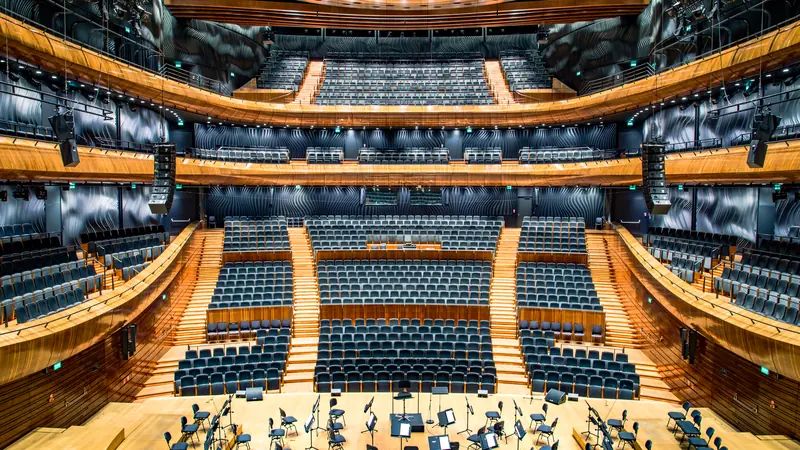
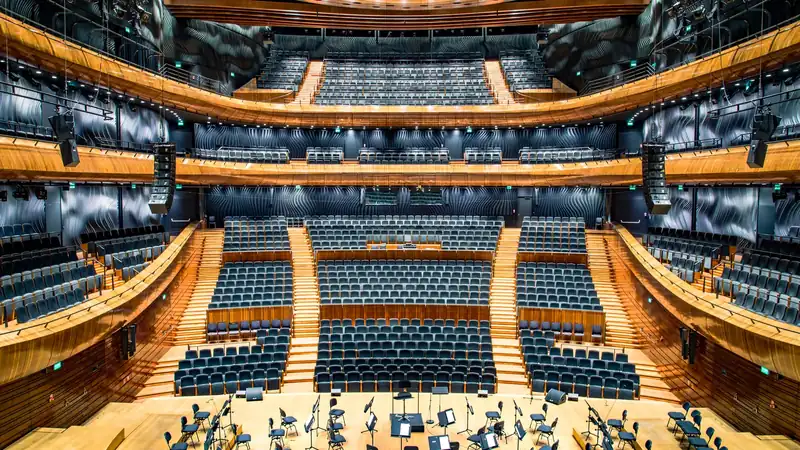
Reduce mobile LCP contention from covers and GA4 (#3)
Keep the homepage hero preload, but stop eager-loading below-the-fold
covers, serve 400/720 WebP srcset variants, recompress the heavy
multicam cover, defer gtag until idle, and lift footer copyright
contrast above 4.5:1.

diff --git a/src/lib/articles.ts b/src/lib/articles.ts
@@ -7,7 +7,7 @@ export type ArticleEn = CollectionEntry<'articlesEn'>;
 export type AnyArticle = Article | ArticleEn;
 
 type ImgRec = {
-  cover: { src: string; src800: string; w: number; h: number; alt: string; altEn?: string; credit: any };
+  cover: { src: string; src800: string; src720?: string; src400?: string; w: number; h: number; alt: string; altEn?: string; credit: any };
   og: string;
   inline: any[];
 };
@@ -27,6 +27,13 @@ export async function getArticlesFor(locale: Locale): Promise<AnyArticle[]> {
 
 export function imagesFor(slug: string): ImgRec | undefined {
   return (images as any).articles[slug];
+}
+/** 400w for thumbs, 720w for a phone-width card at ~1.75x, 800w above that. */
+export function coverSrcset(cover?: { src800?: string; src720?: string; src400?: string } | null): string {
+  if (!cover?.src800) return '';
+  const src400 = cover.src400 || cover.src800.replace(/cover-800\.webp$/, 'cover-400.webp');
+  const src720 = cover.src720 || cover.src800.replace(/cover-800\.webp$/, 'cover-720.webp');
+  return `${src400} 400w, ${src720} 720w, ${cover.src800} 800w`;
 }
 export function coverAlt(slug: string, locale: Locale = 'zh'): string {
   const img = imagesFor(slug);

diff --git a/src/pages/search.json.js b/src/pages/search.json.js
@@ -1,4 +1,4 @@
-import { getArticles, getArticlesEn, imagesFor } from '../lib/articles';
+import { getArticles, getArticlesEn, imagesFor, coverSrcset } from '../lib/articles';
 import { CATEGORIES } from '../consts';
 import { CATEGORIES_EN } from '../lib/i18n';
 
@@ -14,6 +14,7 @@ export async function GET() {
       g: p.data.tags,
       lang: 'zh',
       i: imagesFor(p.id)?.cover.src800 || '',
+      s: imagesFor(p.id) ? coverSrcset(imagesFor(p.id).cover) : '',
       k: (p.body || '').replace(/[#>*`|\-\[\]()]/g, ' ').replace(/\s+/g, ' ').slice(0, 1500),
     })),
     ...en.map((p) => ({
@@ -24,6 +25,7 @@ export async function GET() {
       g: p.data.tags,
       lang: 'en',
       i: imagesFor(p.id)?.cover.src800 || '',
+      s: imagesFor(p.id) ? coverSrcset(imagesFor(p.id).cover) : '',
       k: (p.body || '').replace(/[#>*`|\-\[\]()]/g, ' ').replace(/\s+/g, ' ').slice(0, 1500),
     })),
   ];

diff --git a/src/styles/global.css b/src/styles/global.css
@@ -300,7 +300,7 @@ main:has(> .leadband:last-child) ~ .site-footer{margin-top:0}
 .footer-links-inline{display:flex;gap:14px}
 .footer-grid ul{list-style:none;margin:0;padding:0;display:flex;flex-direction:column;gap:8px}
 .footer-h{color:#fff;font-size:15px;margin:4px 0 14px}
-.footer-bottom{margin-top:40px;padding-top:20px;border-top:1px solid rgba(255,255,255,.08);font-size:12px;color:#64748b}
+.footer-bottom{margin-top:40px;padding-top:20px;border-top:1px solid rgba(255,255,255,.08);font-size:12px;color:#6e819e}
 .tabbar{display:none}
 
 /* Collapse main + sidebar when the layout column is too narrow for a comfortable two-column row */

diff --git a/scripts/add-article-images.py b/scripts/add-article-images.py
@@ -3,35 +3,102 @@
 
 Usage:
   python3 scripts/add-article-images.py <slug> spec.json
+  python3 scripts/add-article-images.py --variants
+
 spec.json:
 {
   "cover":  {"file": "/path/cover.jpg", "alt": "替代文本", "credit": {"creator": "...", "source": "wikimedia", "source_name": "Wikimedia Commons", "license": "CC0", "license_url": "...", "landing": "https://..."}},
   "inline": [{"file": "/path/a.jpg", "alt": "...", "caption": "图注", "credit": {...}}, {...}]
 }
-Outputs public/images/<slug>/{cover.webp (1600x900), cover-800.webp, og.jpg (1200x630), inline-N.webp (<=1200w)}.
-Only use images you have the rights to (CC0/PD or properly licensed); no real brand logos or identifiable people.
+Outputs public/images/<slug>/{cover.webp (1600x900), cover-800.webp, cover-720.webp, cover-400.webp, og.jpg (1200x630), inline-N.webp (<=1200w)}.
+--variants rebuilds cover-400.webp and cover-720.webp from each existing cover.webp (and recompresses
+multicam-live-production/cover-800.webp). It does not touch the homepage hero pipeline.
+Cards use 400w below ~230 CSS px and 720w through a phone-width slot at 1.75x; 400w alone is never
+selected for a ~280–380px slot. Only use images you have the rights to (CC0/PD or properly licensed);
+no real brand logos or identifiable people.
 """
 import sys, json, os
 from PIL import Image, ImageOps
 Image.MAX_IMAGE_PIXELS = None
 ROOT = os.path.join(os.path.dirname(os.path.abspath(__file__)), '..')
-slug, spec = sys.argv[1], json.load(open(sys.argv[2]))
-out = os.path.join(ROOT, 'public', 'images', slug); os.makedirs(out, exist_ok=True)
+# Default matches the historical cover-800 encode. This one source is a dense concert-hall photo and
+# stays ~106KB at quality 76, which is too heavy for an 800x450 card.
+HEAVY_QUALITY = {'multicam-live-production': 55}
+VARIANTS = ((800, 'cover-800.webp', 'src800'), (720, 'cover-720.webp', 'src720'), (400, 'cover-400.webp', 'src400'))
+
 def crop(im, ratio):
     w, h = im.size
     if w / h > ratio: nw = int(h * ratio); x = (w - nw) // 2; return im.crop((x, 0, x + nw, h))
     nh = int(w / ratio); y = (h - nh) // 2; return im.crop((0, y, w, y + nh))
+
+def save_width(im, dest, width, quality):
+    w = min(width, im.width); h = max(1, round(im.height * w / im.width))
+    im.resize((w, h), Image.LANCZOS).save(dest, 'WEBP', quality=quality, method=6)
+    return w
+
+def write_cover_variants(im, out, slug, rewrite_800=True):
+    q = HEAVY_QUALITY.get(slug, 76)
+    urls = {}
+    for width, name, key in VARIANTS:
+        dest = os.path.join(out, name)
+        if key == 'src800' and not rewrite_800 and os.path.exists(dest):
+            urls[key] = f'/images/{slug}/{name}'
+            continue
+        save_width(im, dest, width, q)
+        urls[key] = f'/images/{slug}/{name}'
+        print(f'  {name} {os.path.getsize(dest)} q={q}')
+    return urls
+
+def put_variant_urls(cover, urls):
+    ordered = {}
+    for k, v in cover.items():
+        if k in ('src400', 'src720'): continue
+        ordered[k] = v
+        if k == 'src800':
+            ordered['src720'] = urls['src720']
+            ordered['src400'] = urls['src400']
+    if 'src800' not in ordered:
+        ordered.update(urls)
+    cover.clear(); cover.update(ordered)
+
+def backfill():
+    p = os.path.join(ROOT, 'src', 'data', 'images.json')
+    data = json.load(open(p))
+    for slug, rec in data['articles'].items():
+        cover = rec.get('cover') or {}
+        src = cover.get('src')
+        if not src: continue
+        path = os.path.join(ROOT, 'public', src.lstrip('/'))
+        if not os.path.exists(path):
+            print('skip', slug); continue
+        print(slug)
+        im = Image.open(path).convert('RGB')
+        urls = write_cover_variants(im, os.path.dirname(path), slug, rewrite_800=slug in HEAVY_QUALITY)
+        put_variant_urls(cover, urls)
+    with open(p, 'w') as f:
+        f.write(json.dumps(data, ensure_ascii=False, indent=1) + '\n')
+    print('variants ok', len(data['articles']))
+
+if len(sys.argv) == 2 and sys.argv[1] == '--variants':
+    backfill(); raise SystemExit(0)
+if len(sys.argv) != 3:
+    raise SystemExit('usage: python3 scripts/add-article-images.py <slug> spec.json | --variants')
+slug, spec = sys.argv[1], json.load(open(sys.argv[2]))
+out = os.path.join(ROOT, 'public', 'images', slug); os.makedirs(out, exist_ok=True)
 im = ImageOps.exif_transpose(Image.open(spec['cover']['file'])).convert('RGB')
 c = crop(im, 16 / 9); w = min(1600, c.width); h = round(w * 9 / 16)
-c.resize((w, h), Image.LANCZOS).save(f'{out}/cover.webp', 'WEBP', quality=78, method=6)
-c.resize((800, 450), Image.LANCZOS).save(f'{out}/cover-800.webp', 'WEBP', quality=76, method=6)
+master = c.resize((w, h), Image.LANCZOS)
+master.save(f'{out}/cover.webp', 'WEBP', quality=78, method=6)
+urls = write_cover_variants(master, out, slug, rewrite_800=True)
 crop(im, 1200 / 630).resize((1200, 630), Image.LANCZOS).save(f'{out}/og.jpg', 'JPEG', quality=82, optimize=True, progressive=True)
-rec = {'cover': {'w': w, 'h': h, 'alt': spec['cover']['alt'], 'credit': spec['cover']['credit'], 'src': f'/images/{slug}/cover.webp', 'src800': f'/images/{slug}/cover-800.webp'},
+rec = {'cover': {'w': w, 'h': h, 'alt': spec['cover']['alt'], 'credit': spec['cover']['credit'], 'src': f'/images/{slug}/cover.webp', 'src800': urls['src800'], 'src720': urls['src720'], 'src400': urls['src400']},
        'og': f'/images/{slug}/og.jpg', 'inline': []}
 for i, x in enumerate(spec.get('inline', []), 1):
     im = ImageOps.exif_transpose(Image.open(x['file'])).convert('RGB'); w = min(1200, im.width); h = round(im.height * w / im.width)
     im.resize((w, h), Image.LANCZOS).save(f'{out}/inline-{i}.webp', 'WEBP', quality=78, method=6)
     rec['inline'].append({'src': f'/images/{slug}/inline-{i}.webp', 'w': w, 'h': h, 'alt': x['alt'], 'caption': x.get('caption', ''), 'credit': x['credit']})
 p = os.path.join(ROOT, 'src', 'data', 'images.json'); data = json.load(open(p))
-data['articles'][slug] = rec; json.dump(data, open(p, 'w'), ensure_ascii=False, indent=1)
+data['articles'][slug] = rec
+with open(p, 'w') as f:
+    f.write(json.dumps(data, ensure_ascii=False, indent=1) + '\n')
 print('ok', slug, out)
